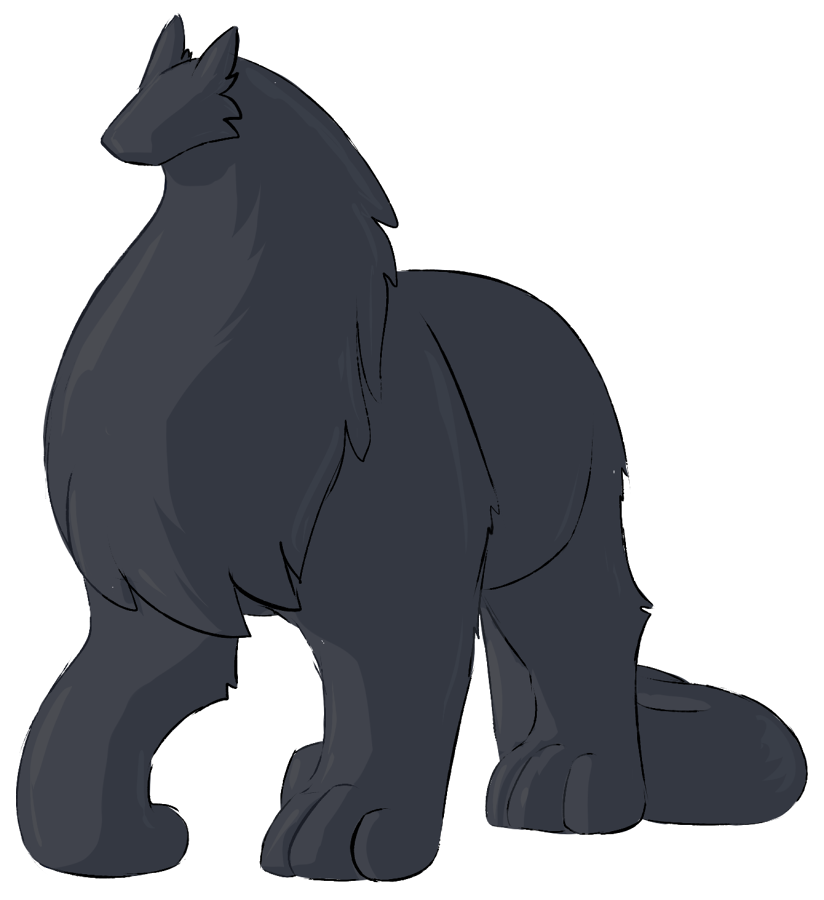
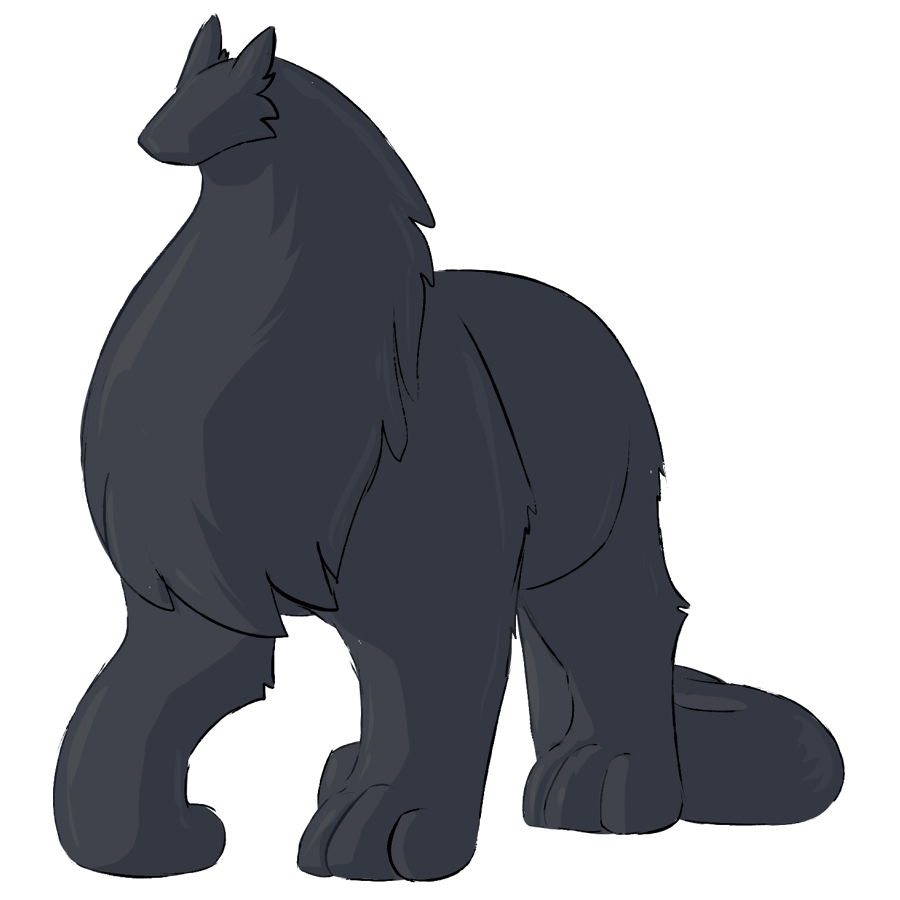
Image width
-Made reguar ref images all the same width
-Guarian ref image size is now determined by page width instead of page height

diff --git a/src/Pages/Guarians/Tabs/KnownGuarians/GuarianCharacterReference.tsx b/src/Pages/Guarians/Tabs/KnownGuarians/GuarianCharacterReference.tsx
@@ -35,7 +35,10 @@ const GuarianCharacterReference: React.FC<IProps> = ({ guarian }) => {
               selected={selectedMaterial}
               onSelect={setSelectedMaterial}
             />
-            <img src={ref} style={{ height: "min(900px, 100vh - 360px)" }} />
+            <img
+              src={ref}
+              style={{ width: "calc(100vw - 1300px)", maxWidth: 900, minWidth: 400 }}
+            />
           </div>
           <div>
             <div style={{ height: 441, marginRight: 270 }}>{guarian.notes}</div>

diff --git a/src/Pages/Guarians/Tabs/KnownGuarians/GuarianMaterialSelector/guarianMaterialSelector.css b/src/Pages/Guarians/Tabs/KnownGuarians/GuarianMaterialSelector/guarianMaterialSelector.css
@@ -6,9 +6,10 @@
 .material-selector-list .material-selector {
   background-color: rgb(31, 29, 44);
   cursor: pointer;
-  padding: 4px 6px 1px;
+  padding: 4px 6px 0px;
   border-radius: 50px;
   margin-right: 10px;
+  user-select: none;
 }
 
 .material-selector-list .material-selector:hover {
